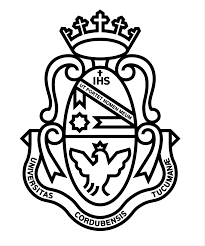
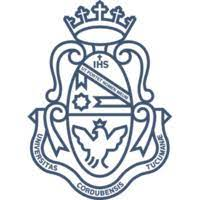
cambios-finales

diff --git a/sobre-mi.html b/sobre-mi.html
@@ -50,9 +50,8 @@
                     
                 <div class="col-12 col-sm-5 text-justify">
                     <h1 class="pt-4 pb-4">Sobre mi</h1>
-                    <p>Lorem ipsum dolor sit amet consectetur adipisicing elit. Odio officiis omnis ea aliquid
-                                distinctio sequi, qui illo animi magnam hic odit asperiores, sunt possimus aperiam neque
-                                rationequia cumque consequatur!
+                    <p> Soy abogada y desarrolladora web Full-Stack, en constante aprendizaje. Apasionada por 
+                        unir el derecho con la tecnología. 
                     </p>
                     <div class="col-12 col-sm-6 ">
                             
@@ -62,7 +61,7 @@
 
                 </div>
                 <div class="col-12 col-sm-3 offset-sm-2">
-                    <img src="images/foto-cv-recortada.jpeg" alt="" class="img-fluid img-circle mi-foto">
+                    <img src="images/foto-cv-recortada.jpeg" alt="" class="img-fluid rounded-circle mi-foto mx-auto ">
                 </div> 
 
             </div>
@@ -192,10 +191,10 @@
                 <h2 class="ml-5 pt-3" style="color: #370a6D;" ><i class="fas fa-briefcase ml-5 mr-2"></i> Experiencia Laboral</h2>
 
                 <div class="row shadow bg-white rounded">
-                    <div class="col-12 ">
+                    <div class="col-12">
                         <div class="row mt-5 div-trabajo">
-                            <div class="col-2 col-sm-2 my-auto px-5 py-0">
-                                <img src="images/balanza.png" alt="" class="img-fluid">
+                            <div class="col-2 col-sm-2 my-auto mt-0 mb-5 pt-0">
+                                <img src="images/justicia.png" alt="" class="img-fluid baw">
                             </div>
                             <div class="col-9 col-sm-9">
                                 <h3>Abogada</h3>
@@ -207,9 +206,9 @@
                         </div>   
                     </div>
                     <div class="col-12">
-                        <div class="row mt-5 mb-5 div-trabajo">
-                            <div class="col-2 col-sm-2 my-auto  p-5">
-                                <img src="images/logo-depcsuite.svg" alt="logo-depcsuite" class="img-fluid">
+                        <div class="row mt-3 mb-5 div-trabajo">
+                            <div class="col-2 col-sm-2 my-auto pt-0 p-5">
+                                <img src="images/logo-depcsuite.svg" alt="logo-depcsuite" class="img-fluid baw">
                             </div>
                             <div class="col-9 col-sm-9">
                                 <h3>Trainee</h3>
@@ -234,10 +233,10 @@
                 <div class="row shadow bg-white rounded">
                     <div class="col-12 col-sm-6">
                         <div class="row div-trabajo">
-                            <div class="col-2 col-sm-2 my-auto p-0">
-                                <img src="images/UNC2.png" alt="logo-UNC" class="img-fluid" style="margin-left: 20px; margin-bottom: 10px;"> 
+                            <div class="col-2 col-sm-2 my-auto ms-0 p-0">
+                                <img src="images/UNC2.png" alt="logo-UNC" class="img-fluid baw" style="margin-left: 10px; margin-bottom: 10px;"> 
                             </div>
-                            <div class="col-12 col-sm-10 ps-5 p-4">
+                            <div class="col-12 col-sm-10 ps-3 p-4">
                                 <h3>Abogada</h3>
                                 <h4 style="color: #e20000;">Universidad Nacional de Córdoba</h4>
                                 <h5>2011-2018</h5>
@@ -248,10 +247,10 @@
                     </div>
                     <div class="col-12 col-sm-6">
                         <div class="row div-trabajo">
-                            <div class="col-2 col-sm-2 my-auto p-3 pt-0">
-                                <img src="images/UTN.png" alt="logo-utn" class="img-fluid">
+                            <div class="col-2 m-0 col-sm-2 my-auto p-sm-3 pt-0">
+                                <img src="images/UTN.png" alt="logo-utn" class="img-fluid baw" style="margin-left: 15px; margin-bottom: 15px;">
                             </div>
-                            <div class="col-12 col-sm-10 ps-3 p-4 tecnicatura">
+                            <div class="col-12 col-sm-10 m-0 z ps-sm-3 p-sm-4 tecnicatura">
                                 <h3>Técnica en Progracación</h3>
                                 <h4 style="color: #e20000;">U.T.N Facultad Regional San Francisco</h4>
                                 <h5>2021-presente</h5>
@@ -273,11 +272,11 @@
                     
                     <div class="col-12 col-sm-6">
                         <div class="row div-trabajo">
-                            <div class="col-2 col-sm-2 my-auto p-0">
-                                <img src="images/UNC2.png" alt="logo-UNC" class="img-fluid" style="margin-left: 20px; margin-bottom: 10px;"> 
+                            <div class="col-2 col-sm-2 my-auto ps-3 p-1">
+                                <img src="images/logo-depcsuite.svg" alt="logo-depcsuite" class="img-fluid baw">
                             </div>
-                            <div class="col-12 col-sm-10 ps-5 p-4">
-                                <h3>FULL STACK</h3>
+                            <div class="col-12 col-sm-10 p-3 pt-4">
+                                <h3>Desarrolladora Full Stack</h3>
                                 <h4 style="color: #e20000;">DePc</h4>
                                 <h5>Expedición:2021</h5>
                             </div>
@@ -286,10 +285,10 @@
                     </div>
                     <div class="col-12 col-sm-6">
                         <div class="row div-trabajo">
-                            <div class="col-2 col-sm-2 my-auto p-0">
-                                <img src="images/UNC2.png" alt="logo-UNC" class="img-fluid" style="margin-left: 20px; margin-bottom: 10px;"> 
+                            <div class="col-2 col-sm-2 my-auto ps-3 p-1">
+                                <img src="images/UCCcuyo.png" alt="logo-UCC" class="img-fluid baw" > 
                             </div>
-                            <div class="col-12 col-sm-10 ps-5 p-4">
+                            <div class="col-12 col-sm-10 p-3 pt-4">
                                 <h3>Diplomatura Internacional en Dcho. Penal Económico</h3>
                                 <h4 style="color: #e20000;">UCC</h4>
                                 <h5>Expedición:2021</h5>
@@ -299,10 +298,10 @@
                     </div>
                     <div class="col-12 col-sm-6">
                         <div class="row div-trabajo">
-                            <div class="col-2 col-sm-2 my-auto p-0">
-                                <img src="images/UNC2.png" alt="logo-UNC" class="img-fluid" style="margin-left: 20px; margin-bottom: 10px;"> 
+                            <div class="col-2 col-sm-2 my-auto ps-3 p-1">
+                                <img src="https://www.grupoprofessional.com.ar/img/logo-grupo-professional-negro-21.png" alt="Grupo Professional" title="Grupo Professional" class="img-fluid baw"> 
                             </div>
-                            <div class="col-12 col-sm-10 ps-5 p-4">
+                            <div class="col-12 col-sm-10 p-3">
                                 <h3>Diplomatura en Dcho. Previsional</h3>
                                 <h4 style="color: #e20000;">Grupo Profesional</h4>
                                 <h5>Expedición:2021</h5>
@@ -312,23 +311,23 @@
                     </div>
                     <div class="col-12 col-sm-6">
                         <div class="row div-trabajo">
-                            <div class="col-2 col-sm-2 my-auto p-0">
-                                <img src="images/UNC2.png" alt="logo-UNC" class="img-fluid" style="margin-left: 20px; margin-bottom: 10px;"> 
+                            <div class="col-2 col-sm-2 my-auto ps-2 p-1">
+                                <img src="images/UNC2.png" alt="logo-UNC" class="img-fluid baw" style="margin-left: 10px; margin-bottom: 10px;"> 
                             </div>
-                            <div class="col-12 col-sm-10 ps-5 p-4">
-                                <h3>SEMINARIO PROFUNDIZADO SOBRE RIESGOS DEL TRABAJO TEÓRICO - PRÁCTICO </h3>
+                            <div class="col-12 col-sm-10 p-3">
+                                <h3>Seminario Profundizado sobre Riesgos del Trabajo Teórico - Práctico </h3>
                                 <h4 style="color: #e20000;">UNC- Facultad de Derecho</h4>
-                                <h5>Expedición: -----</h5>
+                                <h5>Expedición: 2019</h5>
                             </div>
 
                         </div>   
                     </div>
                     <div class="col-12 col-sm-6">
                         <div class="row div-trabajo">
-                            <div class="col-2 col-sm-2 my-auto p-0">
-                                <img src="images/UNC2.png" alt="logo-UNC" class="img-fluid" style="margin-left: 20px; margin-bottom: 10px;"> 
+                            <div class="col-2 col-sm-2 my-auto ps-3 p-1">
+                                <img class="img-fluid baw" src="https://static1.educaedu.com.ar/logos/10/3045.png" alt="AES Capacitación" > 
                             </div>
-                            <div class="col-12 col-sm-10 ps-5 p-4">
+                            <div class="col-12 col-sm-10 p-3">
                                 <h3>Curso de Office y Dactilografía</h3>
                                 <h4 style="color: #e20000;">AES</h4>
                                 <h5>Expedición: 2018</h5>
@@ -338,23 +337,23 @@
                     </div>
                     <div class="col-12 col-sm-6">
                         <div class="row div-trabajo">
-                            <div class="col-2 col-sm-2 my-auto p-0">
-                                <img src="images/UNC2.png" alt="logo-UNC" class="img-fluid" style="margin-left: 20px; margin-bottom: 10px;"> 
+                            <div class="col-2 col-sm-2 my-auto ps-3 p-1">
+                                <img width="731" height="200" src="https://www.ficde.org/wp-content/uploads/2019/07/cropped-TRAZZADO-1.png" class="img-fluid baw" alt="Instituto Educativo FICDE" srcset="https://www.ficde.org/wp-content/uploads/2019/07/cropped-TRAZZADO-1.png 731w, https://www.ficde.org/wp-content/uploads/2019/07/cropped-TRAZZADO-1-300x82.png 300w" sizes="(max-width: 731px) 100vw, 731px">
                             </div>
-                            <div class="col-12 col-sm-10 ps-5 p-4">
+                            <div class="col-12 col-sm-10 p-3">
                                 <h3>Curso Teórico Práctico de Reanimación Cardiopulmonar (RCP) y Primeros Auxilios</h3>
-                                <h4 style="color: #e20000;">--------</h4>
-                                <h5>Expedición: 2015</h5>
+                                <h4 style="color: #e20000;"> Instituto FICDE</h4>
+                                <h5>Expedición: 2017</h5>
                             </div>
 
                         </div>   
                     </div>
                     <div class="col-12 col-sm-6">
                         <div class="row div-trabajo">
-                            <div class="col-2 col-sm-2 my-auto p-0">
-                                <img src="images/UNC2.png" alt="logo-UNC" class="img-fluid" style="margin-left: 20px; margin-bottom: 10px;"> 
+                            <div class="col-2 col-sm-2 my-auto ps-2 pe-1">
+                                <img src="images/UNC2.png" alt="logo-UNC" class="img-fluid baw" style="margin-left: 10px; margin-bottom: 10px;"> 
                             </div>
-                            <div class="col-12 col-sm-10 ps-5 p-4">
+                            <div class="col-12 col-sm-10 p-3 pb-4">
                                 <h3>Taller de ORATORIA Y EXPRESION I</h3>
                                 <h4 style="color: #e20000;">UNC- Facultad de Derecho</h4>
                                 <h5>Expedición: 2015</h5>
@@ -364,10 +363,10 @@
                     </div>
                     <div class="col-12 col-sm-6">
                         <div class="row div-trabajo">
-                            <div class="col-2 col-sm-2 my-auto p-0">
-                                <img src="images/UNC2.png" alt="logo-UNC" class="img-fluid" style="margin-left: 20px; margin-bottom: 10px;"> 
+                            <div class="col-2 col-sm-2 my-auto ps-2 pe-1">
+                                <img src="images/UNC2.png" alt="logo-UNC" class="img-fluid baw" style="margin-left: 10px;"> 
                             </div>
-                            <div class="col-12 col-sm-10 ps-5 p-4">
+                            <div class="col-12 col-sm-10 p-3 pb-4">
                                 <h3>Taller de PROGRAMACIÓN NEUROLINGUISTICA</h3>
                                 <h4 style="color: #e20000;">UNC- Facultad de Derecho</h4>
                                 <h5>Expedición: 2015</h5>
@@ -394,9 +393,9 @@
                                 </div>
                                 <div class="col-8 ">
                                     <div class="card-body">
-                                        <h6 class="ml-3 pt-4 pb-3">IDIOMAS</h6>
-                                        <p class="ml-3">Español - Nativo</p>
-                                        <p class="ml-3">Ingles - Intermedio</p>
+                                        <h6 class="parrafo-hobbies pt-4 pb-3">IDIOMAS</h6>
+                                        <p class="parrafo-hobbies">Español - Nativo</p>
+                                        <p class="parrafo-hobbies">Ingles - Intermedio</p>
                                         <p><br><br><br></p>
                                     </div>
                                 </div>
@@ -414,9 +413,9 @@
                                 <div class="col-8">
                                     <div class="card-body">
                                         <h6 class="ml-3 pt-4 pb-3">HOBBIES</h6>
-                                        <p class="ml-3">Aprender- Siempre estoy haciendo<br> <br>algún curso.</p>
-                                        <p class="ml-3">Jugar a la play- Uncharted.</p>
-                                        <p class="ml-3">Bailar- Siempre sirve para distender.</p>
+                                        <p class="parrafo-hobbies">Aprender- Siempre estoy haciendo <br><br> algún curso.</p>
+                                        <p class="parrafo-hobbies">Jugar a la play- Uncharted.</p>
+                                        <p class="parrafo-hobbies">Bailar- Siempre sirve para distender.</p>
                                     </div>
                                 </div>
                             </div>
@@ -440,15 +439,15 @@
         
 
     </main>
-    <footer class="container  mb-3">
-        <div class="row my-5 ">
+    <footer class="container my-5">
+        <div class="row">
             <div class="col-12 col-sm-3 text-center text-sm-start">
                 <a href="https://github.com/AbagnaleFlorencia?tab=repositories" target="_blank" title="Github" class="mr-3"><i class="fab fa-github"></i></a>
                 <a href="https://www.linkedin.com/in/florencia-abagnale-bb656296/" target="_blank" title="Linkedin"><i class="fab fa-linkedin-in"></i></a>
 
             </div>
             <div class="col-12 col-sm-3 text-center text-sm-start">
-                <span>Sponsor </span> <a href="https://depcsuite.com/" target="_blank">DePC Suite</a>
+              <span> Sponsor </span> <a href="https://depcsuite.com/" target="_blank">DePC Suite</a>
             </div>
             <div class="col-12 col-sm-3 text-center text-sm-start">
                 <a href="to:abagnaleflorenciag@gmail.com">abagnaleflorenciag@gmail.com.ar</a>

diff --git a/css/estilos.css b/css/estilos.css
@@ -53,20 +53,8 @@ footer .fa-github {
     color: #ff4a49;
 }
 #sobre-mi .fa-github{
-    color: #E20000;
-    font-size: 35px;
+    color: #ff4a49;
 }
-#sobre-mi .fa-linkedin-in {
-    color: #E20000;
-    background-color: white;
-    font-size: 24px;
-    height: 36px;
-    width: 36px;
-    padding: 8px 0 0 0;
-    border-radius: 88px;
-    margin: 0 8px;
-}
-
 footer a {
     color: white;
     text-decoration: underline;
@@ -202,15 +190,23 @@ footer .fa-whatsapp{
     color: #6a6a6a;
     font-family: 'Montserrat', sans-serif;
 }
+.baw{
+    
+    filter: grayscale(100%);
+}
+.baw:hover{
+    filter: none;
+}
 #sobre-mi h3{
-    font-size: 20px;
+    font-size: 18px;
+    font-weight: 600;
 }
 #sobre-mi h4{
     color: #370A6D;
-    font-size: 18px;
+    font-size: 17px;
 }
 #sobre-mi h5{
-    font-size: 15px;
+    font-size: 14px;
 }
 
 
@@ -264,6 +260,13 @@ nav .navbar-toggler{
 @media (max-width: 750px) { /*PARA MOBILE*/
     #inicio, #contacto {
         background-image: url(../images/fondo-proyectos.png);
+        
+    }
+    #inicio .fa-github{
+        color: #ff4a49;
+    }
+    #contacto .fa-github{
+        color: #ff4a49;
     }
     #inicio .input-home p {
         color: #E20000;
@@ -291,9 +294,13 @@ nav .navbar-toggler{
         border-radius: 50px;
         font-weight: 600;
     }
-    #sobre-mi .my-auto{
-        margin-left: 30px;
+    #sobre-mi .parrafo-hobbies{
+        font-size: 10px;
     }
+    #sobre-mi .my-auto{
+        display: none;
+    }
+    
     #sobre-mi .tecnicatura{
         margin-left: 20px ;
     }

diff --git a/proyectos.html b/proyectos.html
@@ -50,7 +50,7 @@
             </div>
         </div>
         <div class="row">
-            <div class="col-6">
+            <div class="col-12 col-sm-6">
                 <p>Los siguientes son algunos de los trabajos que he realizado:</p>
             </div>
         </div>
